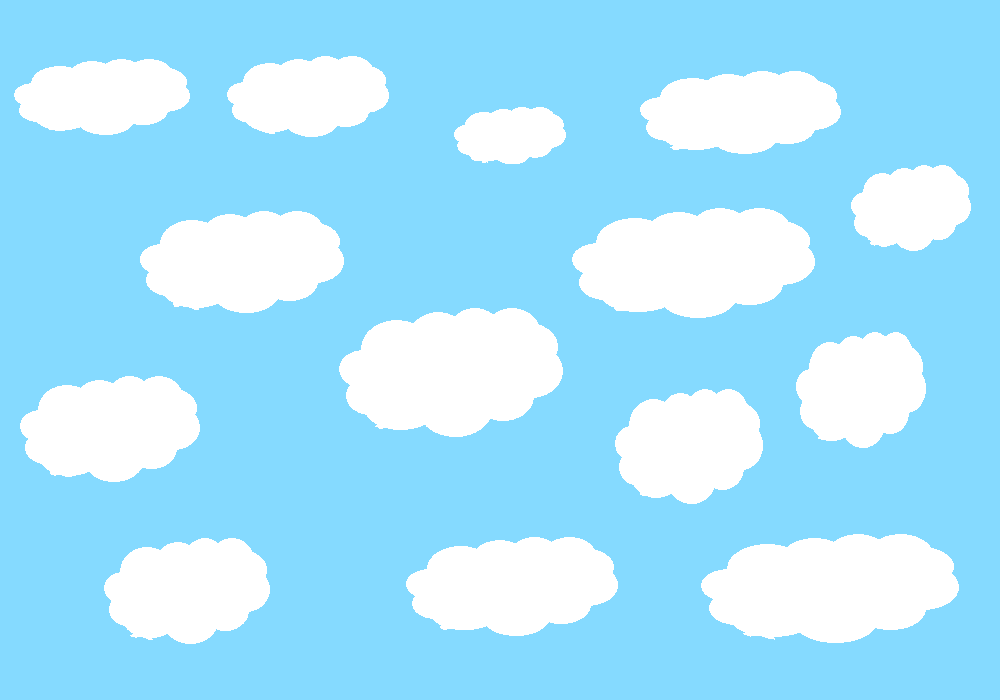
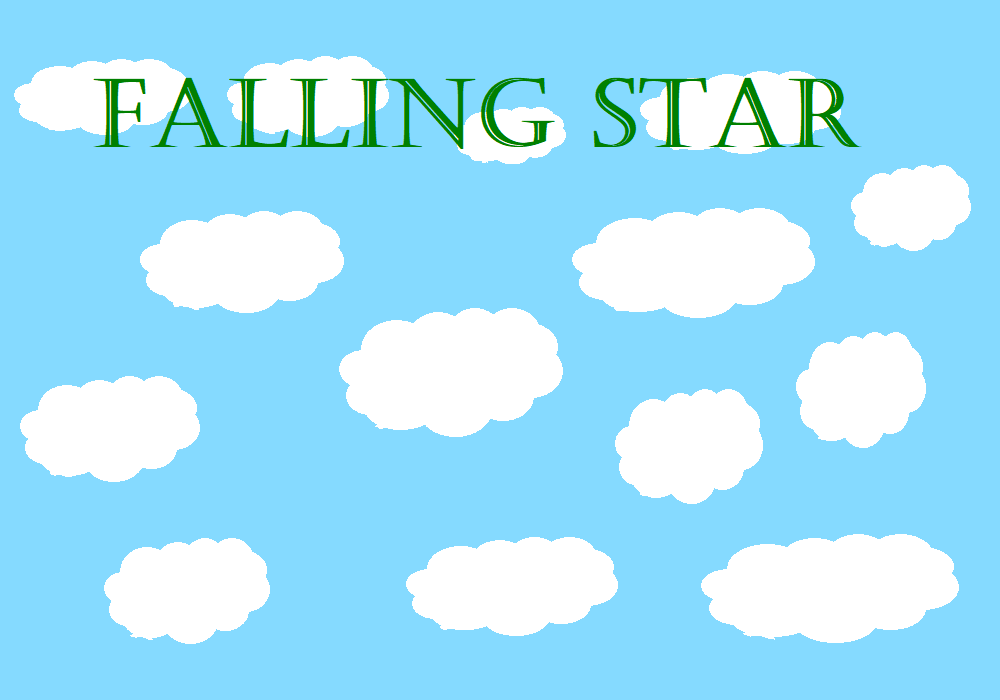
Added menu screen

Changed region(s): [[0.093, 0.09, 0.558, 0.21], [0.713, 0.09, 0.868, 0.21], [0.589, 0.09, 0.713, 0.21]]

diff --git a/game.py b/game.py
@@ -1,23 +1,67 @@
 import pygame, os
 
 # Parent class
-class Game:
+class Game():
     def __init__(self):
         self.WINDOW_WIDTH, self.WINDOW_HEIGHT = 1000, 700
         self.STAR_SIZE, self.SLIME_SIZE, self.BORDER_THICKNESS = 60, 100, 30
         self.BORDER_LEFT_X, self.BORDER_LEFT_Y = 100, 0
         self.BORDER_RIGHT_X, self.BORDER_RIGHT_Y = 870, 0
         self.SCORE_BOARD_WIDTH, self.SCORE_BOARD_HEIGHT = 80, 50
+        self.MENU_BUTTON_WIDTH, self.MENU_BUTTON_HEIGHT = 100, 50
+        self.MENU_BUTTON_X, self.MENU_BUTTON_Y = (self.WINDOW_WIDTH / 2) - (self.MENU_BUTTON_WIDTH / 2), (self.WINDOW_HEIGHT / 2) - self.MENU_BUTTON_HEIGHT
         self.RED = (255,0,0)
+        self.DARK_RED = (144,1,57)
+        self.BLACK = (0,0,0)
+        self.button_pressed = False
+        self.alpha, self.score = 0, 0
 
         self.WINDOW = pygame.display.set_mode((self.WINDOW_WIDTH,self.WINDOW_HEIGHT))
         self.BORDER_IMAGE = pygame.image.load(os.path.join("images", "wall_border.png")).convert_alpha()
         self.BACKGROUND_IMAGE = pygame.image.load(os.path.join("images", "background.png")).convert_alpha()
+        self.MENU_IMAGE = pygame.image.load(os.path.join("images", "menu_image.png"))
         self.GAME_TITILE = pygame.display.set_caption("Falling Stars")
         self.FONT = pygame.font.SysFont('Arial',25)
+        self.MENU_BUTTON = pygame.Rect(self.MENU_BUTTON_X, self.MENU_BUTTON_Y, self.MENU_BUTTON_WIDTH, self.MENU_BUTTON_HEIGHT)
+        self.SCREEN_TRANSITION = pygame.surface.Surface((self.WINDOW_WIDTH, self.WINDOW_HEIGHT))
+        self.MENU_BUTTON_TEXT = self.FONT.render("START", False, (255,255,255))
 
-    def draw(self, point):
-        font_surface = self.FONT.render("Score: " + str(point), False, self.RED)
+    #Check if mouse clicked on the button
+    def menu_screen(self, menu):
+        mouse_pos = pygame.mouse.get_pos()
+        if (self.MENU_BUTTON_X < mouse_pos[0] < self.MENU_BUTTON_X + self.MENU_BUTTON_WIDTH) and (self.MENU_BUTTON_Y < mouse_pos[1] < self.MENU_BUTTON_Y + self.MENU_BUTTON_HEIGHT):
+            self.button_pressed = True
+            return False
+        else:
+            if menu == True:
+                return True
+            else:
+                return False
+            
+    #This method both empty all star sprites and creates screen transition when existing menu screen
+    def exist_menu_screen(self, star_group):
+        star_group.empty()
+        #This while loop create screen transition when existing menu screen
+        while self.alpha != 255:
+            self.alpha += 3
+            self.SCREEN_TRANSITION.set_alpha(self.alpha)
+            self.draw_menu()
+            self.WINDOW.blit(self.SCREEN_TRANSITION, (0,0))
+            pygame.display.update()
+        self.alpha = 0
 
+    def update_score(self, score):
+        self.score = score
+
+    def draw_menu(self):
+        self.WINDOW.blit(self.MENU_IMAGE, (0,0))
+        if self.button_pressed:
+            pygame.draw.rect(self.WINDOW, self.DARK_RED, self.MENU_BUTTON)
+        else:
+            pygame.draw.rect(self.WINDOW, self.RED, self.MENU_BUTTON)
+        self.WINDOW.blit(self.MENU_BUTTON_TEXT, (self.MENU_BUTTON_X + 17, self.MENU_BUTTON_Y + 10))
+
+    def draw(self):
+        font_surface = self.FONT.render("Score: " + str(self.score), False, self.RED)
         # Setup window's background, borders, and score board.
         self.WINDOW.blits([(self.BACKGROUND_IMAGE, (0,0)), (self.BORDER_IMAGE, (self.BORDER_LEFT_X, self.BORDER_LEFT_Y)), (self.BORDER_IMAGE, (self.BORDER_RIGHT_X, self.BORDER_RIGHT_Y)),(font_surface, (self.BORDER_RIGHT_X + self.BORDER_THICKNESS, 0))])

diff --git a/main.py b/main.py
@@ -1,4 +1,4 @@
-import pygame, random, sys
+import pygame, sys
 from slime import Slime
 from game import Game
 from star import Star
@@ -8,15 +8,17 @@ pygame.display.init()
 def main():
     now = pygame.time.get_ticks()
     frame = pygame.time.Clock()
-    fps = 60
-    score = 0
-    run = True
+    fps, score = 60, 0
+    run, menu = True, True
+    exit_menu = False
 
     game = Game()
     slime = Slime()
     slime_group = pygame.sprite.Group()
     slime_group.add(slime)
+    star = Star()
     star_group = pygame.sprite.Group()
+    star_group.add(star)
         
     while run:
         for event in pygame.event.get():
@@ -24,27 +26,54 @@ def main():
             if event.type == pygame.QUIT:
                 run = True
                 sys.exit()
-                
-        # Create star sprites and store all sprites a group
-        cooldown = pygame.time.get_ticks() - now
-        if cooldown >= 4000:
-            star_group.add(Star())
-            now = pygame.time.get_ticks()
+            if event.type == pygame.MOUSEBUTTONUP:
+                menu = game.menu_screen(menu)
+                if menu == False:
+                    exit_menu = True
 
-        # If collided, increase the score by 1
-        collided_stars = slime.collision(slime, star_group)
-        for num_star in collided_stars:
-            score += 1
-        
-        # Display the game
-        game.draw(score)
-        slime.input()
-        slime_group.draw(game.WINDOW)
-        slime_group.update()
-        star_group.draw(game.WINDOW)
-        star_group.update()
-        pygame.display.update()
-        frame.tick(fps)
+        #If existing menu screen, remove all stars from sprite group, then clear screen
+        if menu == False and exit_menu == True:
+            game.exist_menu_screen(star_group)
+            exit_menu = False #Set exit_menu to False because it prevent this if statement from repeating
+
+        #Starting menu screen of the game
+        if menu:
+            cooldown = pygame.time.get_ticks() - now
+            if cooldown >= 2000:
+                star.create_star(star_group)
+                now = pygame.time.get_ticks()
+            game.WINDOW.fill((0,0,0))
+            game.draw_menu()
+            star_group.draw(game.WINDOW)
+            star_group.update()
+            star.remove_star(star_group)
+            pygame.display.update()
+            frame.tick(fps)
+        else:
+            # Create star sprites and store all sprites a group
+            cooldown = pygame.time.get_ticks() - now
+            if cooldown >= 3000:
+                star.create_star(star_group)
+                now = pygame.time.get_ticks()
+
+            # If collided, increase the score by 1
+            collided_stars = slime.collision(slime, star_group)
+            score += len(collided_stars)
+            game.update_score(score)
+
+            #If a star go outside the map, remove that star from sprite group
+            star.remove_star(star_group)
+            
+            # Display the game
+            game.WINDOW.fill((0,0,0))
+            game.draw()
+            slime.input()
+            slime_group.draw(game.WINDOW)
+            slime_group.update()
+            star_group.draw(game.WINDOW)
+            star_group.update()
+            pygame.display.update()
+            frame.tick(fps)
 
 if __name__ == "__main__":
     main()

diff --git a/star.py b/star.py
@@ -12,6 +12,17 @@ class Star(Game, pygame.sprite.Sprite):
         self.rect = self.image.get_rect()
         self.rect.topleft = (self.x, self.y)
 
+    #Create star in an interval (the interval is in main.py)
+    def create_star(self, star_group):
+        star_group.add(Star())
+
+    #Remove any star sprite/object that go outside the map 
+    def remove_star(self, star_group):
+        list = star_group.sprites()
+        for i in range(len(list)):
+            if list[i].y > self.WINDOW_HEIGHT:
+                star_group.remove(list[i])
+
     # Allow the stars to fall down from the top of the screen
     def update(self):
         self.y += self.star_gravity

diff --git a/slime.py b/slime.py
@@ -60,9 +60,7 @@ class Slime(Game, pygame.sprite.Sprite):
             self.y = 0
 
     def update(self):
-
         self.rect.topleft = [self.x, self.y]
-
         if self.left_move == False:
             # When slime moved right, display slime's image where it facing to the right
             self.image = pygame.image.load(os.path.join("images", "character_right_image.png")).convert_alpha()
